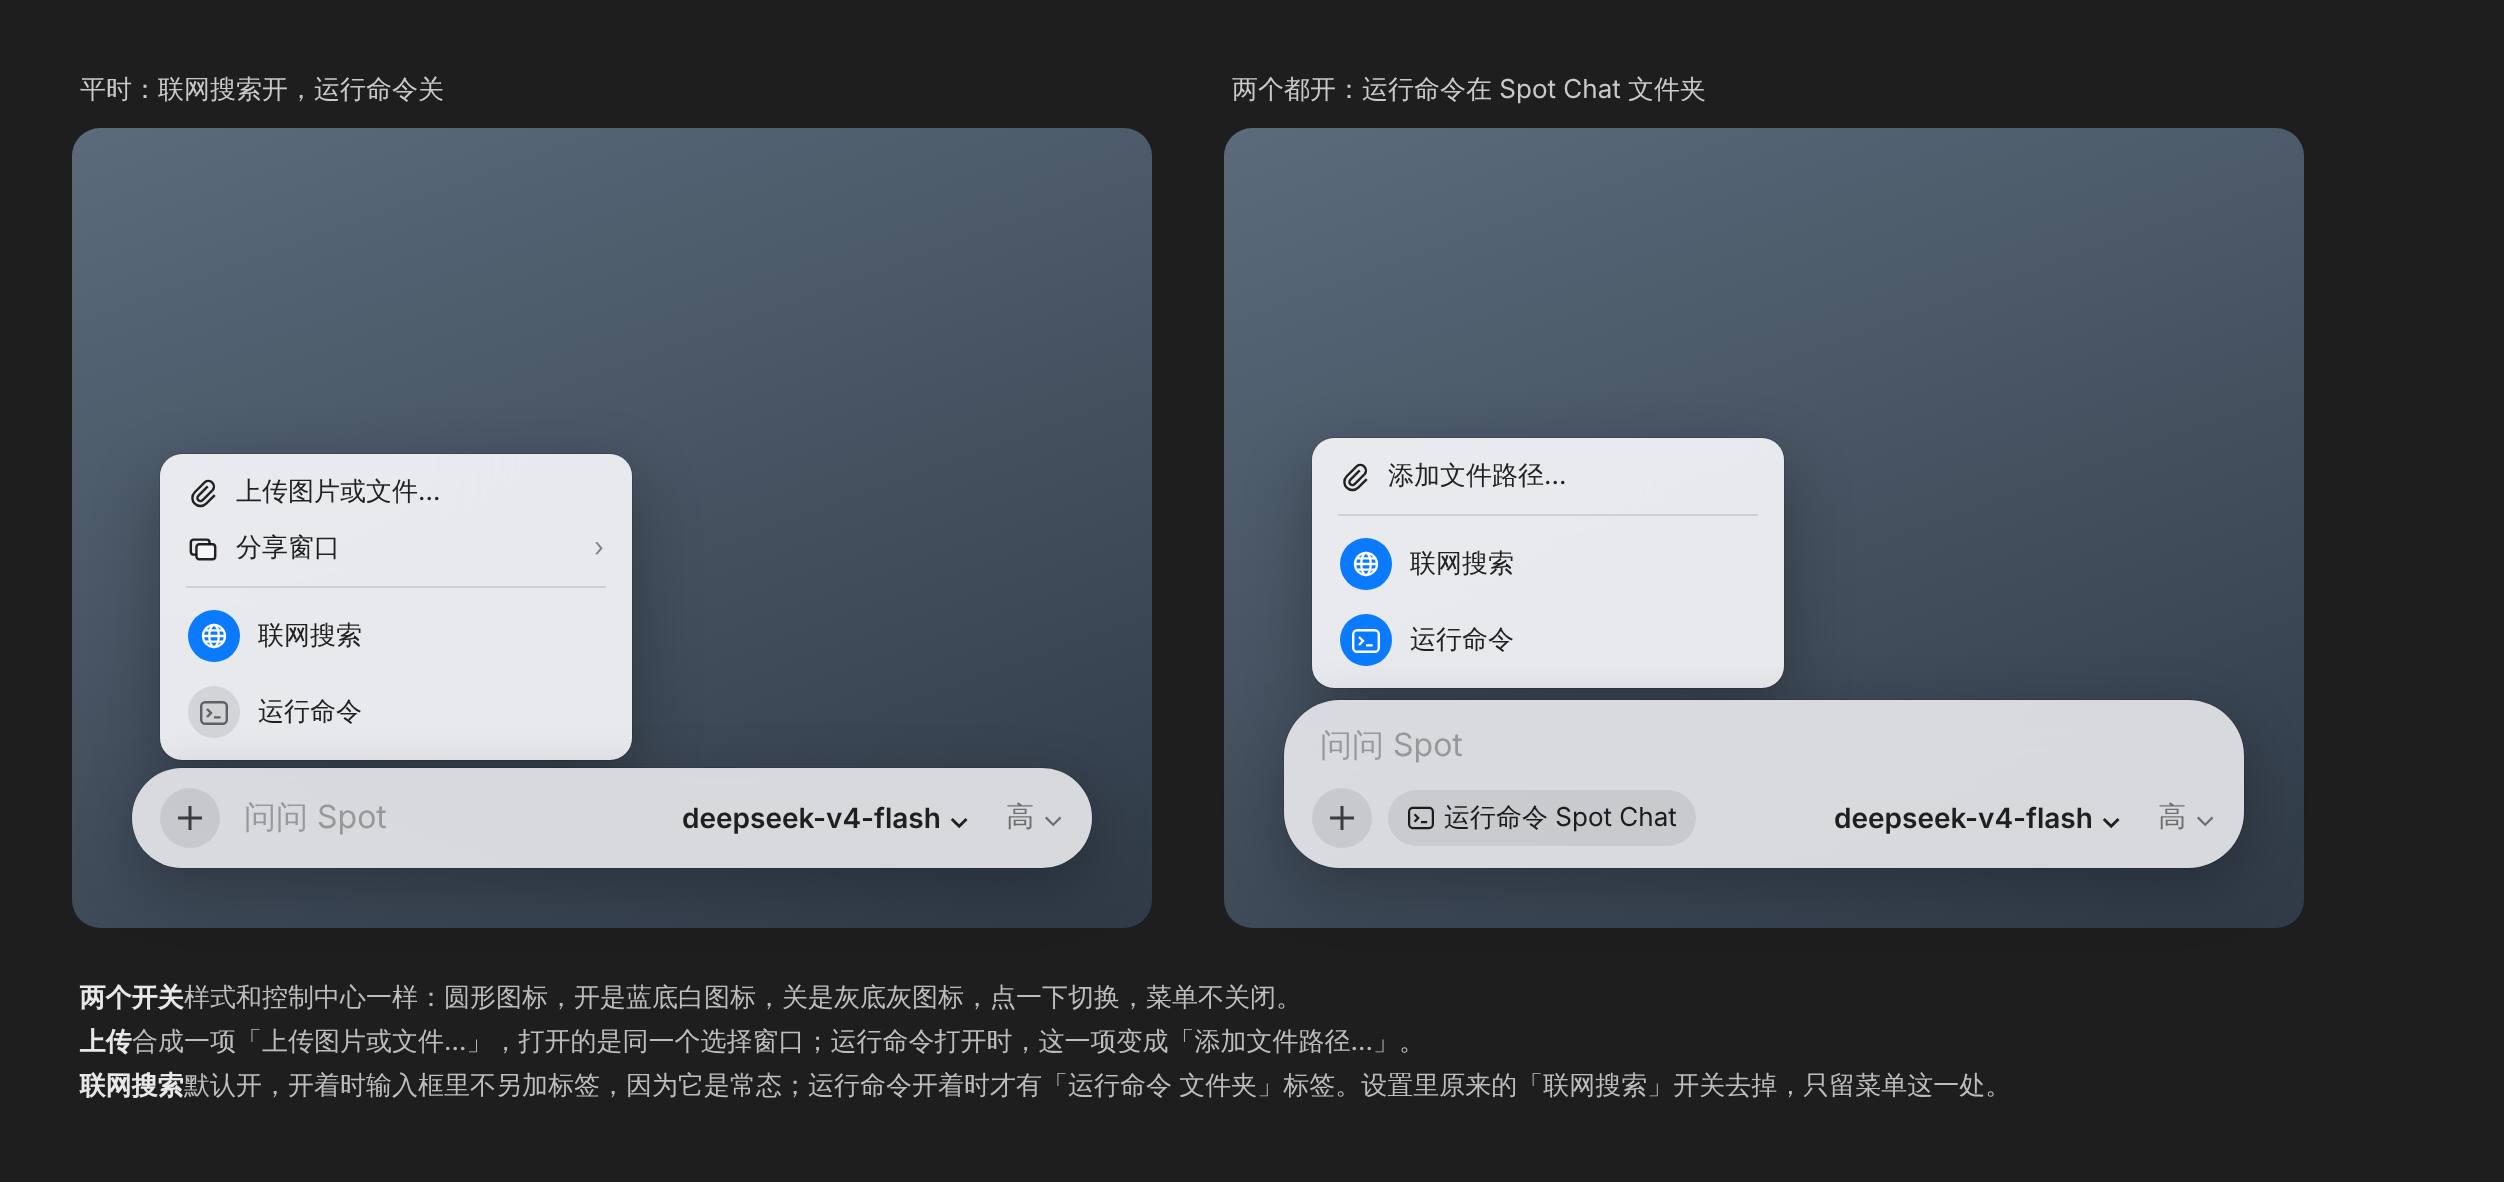
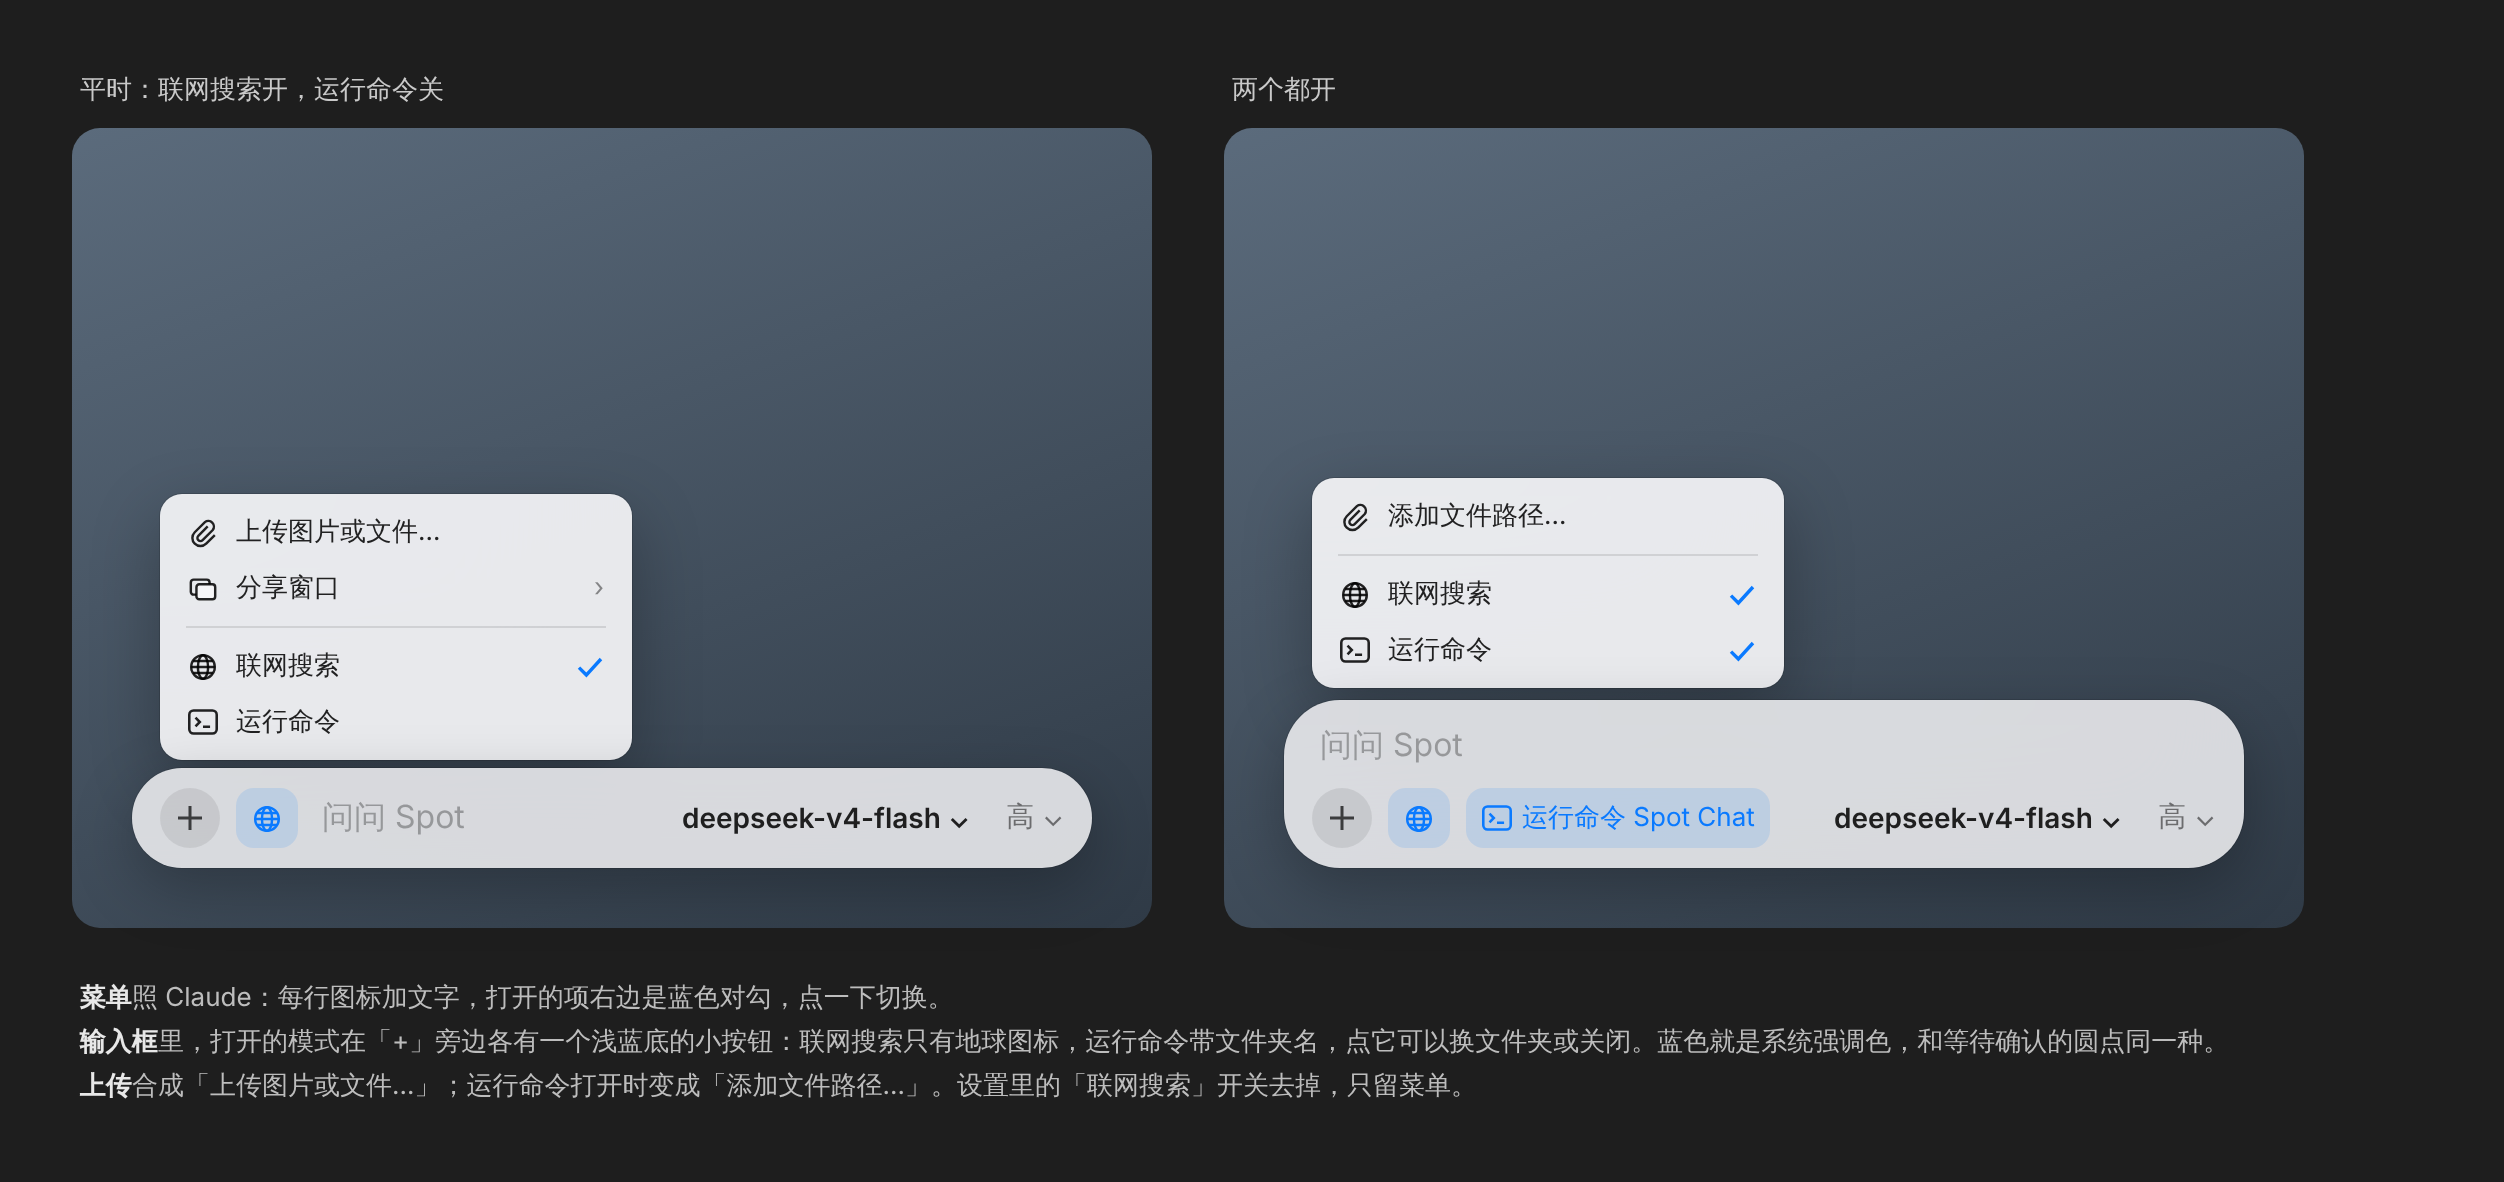
Follow Claude in the + menu mockup: check marks on the right, mode buttons beside the +
[ui: testInterfaceIsTranslatedForSimplifiedChinese]

Claude-Session: https://claude.ai/code/session_01REvHc4SjjqMcxY8UXeyBUw

diff --git a/docs/design/plus-menu.html b/docs/design/plus-menu.html
@@ -20,7 +20,8 @@ body{margin:0;background:#1e1e1e;height:max-content;font-family:-apple-system,"S
 .mi.hl{background:var(--accent);color:#fff}
 .mi .chev{margin-left:auto;opacity:.5}
 .sep{height:1px;background:rgba(0,0,0,.1);margin:5px 8px}
-.toggle{height:38px}
+.check{margin-left:auto;color:var(--accent);display:grid;place-items:center}
+.mode{height:30px;min-width:30px;padding:0 8px;border-radius:9px;display:inline-flex;align-items:center;gap:5px;background:rgba(10,122,255,.13);color:var(--accent);font-size:13px}
 .orb{width:26px;height:26px;border-radius:13px;display:grid;place-items:center;flex:none}
 .orb.off{background:rgba(0,0,0,.09);color:rgba(0,0,0,.55)}
 .orb.on{background:var(--accent);color:#fff}
@@ -36,33 +37,33 @@ body{margin:0;background:#1e1e1e;height:max-content;font-family:-apple-system,"S
     <div class="mi"><svg width="15" height="15" viewBox="0 0 16 16" fill="none" stroke="currentColor" stroke-width="1.3"><path d="M10.5 4.5l-5 5a1.6 1.6 0 0 0 2.3 2.3l5.4-5.4a3 3 0 0 0-4.2-4.2L3.6 7.6a4.3 4.3 0 0 0 6.1 6.1l4.6-4.6"/></svg>上传图片或文件…</div>
     <div class="mi"><svg width="15" height="15" viewBox="0 0 16 16" fill="none" stroke="currentColor" stroke-width="1.3"><rect x="1.5" y="3" width="10" height="8" rx="1.5"/><rect x="4.5" y="5.5" width="10" height="8" rx="1.5" fill="rgba(246,246,248,1)"/></svg>分享窗口<span class="chev">›</span></div>
     <div class="sep"></div>
-    <div class="mi toggle"><span class="orb on"><svg width="14" height="14" viewBox="0 0 16 16" fill="none" stroke="currentColor" stroke-width="1.3"><circle cx="8" cy="8" r="6.3"/><ellipse cx="8" cy="8" rx="2.7" ry="6.3"/><path d="M1.8 8h12.4M2.8 4.8h10.4M2.8 11.2h10.4"/></svg></span>联网搜索</div>
-    <div class="mi toggle"><span class="orb off"><svg width="14" height="13" viewBox="0 0 14 12" fill="none" stroke="currentColor" stroke-width="1.2"><rect x=".6" y=".6" width="12.8" height="10.8" rx="2"/><path d="M3.5 4l2 2-2 2M7 8.2h3.3"/></svg></span>运行命令</div>
+    <div class="mi"><svg width="15" height="15" viewBox="0 0 16 16" fill="none" stroke="currentColor" stroke-width="1.3"><circle cx="8" cy="8" r="6.3"/><ellipse cx="8" cy="8" rx="2.7" ry="6.3"/><path d="M1.8 8h12.4M2.8 4.8h10.4M2.8 11.2h10.4"/></svg>联网搜索<span class="check"><svg width="14" height="11" viewBox="0 0 14 11" fill="none" stroke="currentColor" stroke-width="1.7"><path d="M1.5 5.8l3.7 3.7L12.5 1.5"/></svg></span></div>
+    <div class="mi"><svg width="15" height="14" viewBox="0 0 14 12" fill="none" stroke="currentColor" stroke-width="1.2"><rect x=".6" y=".6" width="12.8" height="10.8" rx="2"/><path d="M3.5 4l2 2-2 2M7 8.2h3.3"/></svg>运行命令</div>
    </div>
    <div class="capsule">
-    <div class="line"><span class="plus"><svg width="14" height="14" viewBox="0 0 14 14" stroke="rgba(0,0,0,.7)" stroke-width="1.5"><path d="M7 1v12M1 7h12"/></svg></span><span class="ph" style="padding:0 4px">问问 Spot</span><span class="sp"></span><span class="model">deepseek-v4-flash ⌄</span><span class="eff">高 ⌄</span></div>
+    <div class="line"><span class="plus"><svg width="14" height="14" viewBox="0 0 14 14" stroke="rgba(0,0,0,.7)" stroke-width="1.5"><path d="M7 1v12M1 7h12"/></svg></span><span class="mode"><svg width="15" height="15" viewBox="0 0 16 16" fill="none" stroke="currentColor" stroke-width="1.3"><circle cx="8" cy="8" r="6.3"/><ellipse cx="8" cy="8" rx="2.7" ry="6.3"/><path d="M1.8 8h12.4M2.8 4.8h10.4M2.8 11.2h10.4"/></svg></span><span class="ph" style="padding:0 4px">问问 Spot</span><span class="sp"></span><span class="model">deepseek-v4-flash ⌄</span><span class="eff">高 ⌄</span></div>
    </div>
   </div>
  </div>
 
  <div class="state">
-  <div class="cap">两个都开：运行命令在 Spot Chat 文件夹</div>
+  <div class="cap">两个都开</div>
   <div class="stage">
    <div class="menu" style="bottom:120px">
     <div class="mi"><svg width="15" height="15" viewBox="0 0 16 16" fill="none" stroke="currentColor" stroke-width="1.3"><path d="M10.5 4.5l-5 5a1.6 1.6 0 0 0 2.3 2.3l5.4-5.4a3 3 0 0 0-4.2-4.2L3.6 7.6a4.3 4.3 0 0 0 6.1 6.1l4.6-4.6"/></svg>添加文件路径…</div>
     <div class="sep"></div>
-    <div class="mi toggle"><span class="orb on"><svg width="14" height="14" viewBox="0 0 16 16" fill="none" stroke="currentColor" stroke-width="1.3"><circle cx="8" cy="8" r="6.3"/><ellipse cx="8" cy="8" rx="2.7" ry="6.3"/><path d="M1.8 8h12.4M2.8 4.8h10.4M2.8 11.2h10.4"/></svg></span>联网搜索</div>
-    <div class="mi toggle"><span class="orb on"><svg width="14" height="13" viewBox="0 0 14 12" fill="none" stroke="currentColor" stroke-width="1.2"><rect x=".6" y=".6" width="12.8" height="10.8" rx="2"/><path d="M3.5 4l2 2-2 2M7 8.2h3.3"/></svg></span>运行命令</div>
+    <div class="mi"><svg width="15" height="15" viewBox="0 0 16 16" fill="none" stroke="currentColor" stroke-width="1.3"><circle cx="8" cy="8" r="6.3"/><ellipse cx="8" cy="8" rx="2.7" ry="6.3"/><path d="M1.8 8h12.4M2.8 4.8h10.4M2.8 11.2h10.4"/></svg>联网搜索<span class="check"><svg width="14" height="11" viewBox="0 0 14 11" fill="none" stroke="currentColor" stroke-width="1.7"><path d="M1.5 5.8l3.7 3.7L12.5 1.5"/></svg></span></div>
+    <div class="mi"><svg width="15" height="14" viewBox="0 0 14 12" fill="none" stroke="currentColor" stroke-width="1.2"><rect x=".6" y=".6" width="12.8" height="10.8" rx="2"/><path d="M3.5 4l2 2-2 2M7 8.2h3.3"/></svg>运行命令<span class="check"><svg width="14" height="11" viewBox="0 0 14 11" fill="none" stroke="currentColor" stroke-width="1.7"><path d="M1.5 5.8l3.7 3.7L12.5 1.5"/></svg></span></div>
    </div>
    <div class="capsule">
     <div class="ph">问问 Spot</div>
-    <div class="line"><span class="plus"><svg width="14" height="14" viewBox="0 0 14 14" stroke="rgba(0,0,0,.7)" stroke-width="1.5"><path d="M7 1v12M1 7h12"/></svg></span><span class="chip"><svg width="13" height="12" viewBox="0 0 14 12" fill="none" stroke="currentColor" stroke-width="1.2"><rect x=".6" y=".6" width="12.8" height="10.8" rx="2"/><path d="M3.5 4l2 2-2 2M7 8.2h3.3"/></svg>运行命令 Spot Chat</span><span class="sp"></span><span class="model">deepseek-v4-flash ⌄</span><span class="eff">高 ⌄</span></div>
+    <div class="line"><span class="plus"><svg width="14" height="14" viewBox="0 0 14 14" stroke="rgba(0,0,0,.7)" stroke-width="1.5"><path d="M7 1v12M1 7h12"/></svg></span><span class="mode"><svg width="15" height="15" viewBox="0 0 16 16" fill="none" stroke="currentColor" stroke-width="1.3"><circle cx="8" cy="8" r="6.3"/><ellipse cx="8" cy="8" rx="2.7" ry="6.3"/><path d="M1.8 8h12.4M2.8 4.8h10.4M2.8 11.2h10.4"/></svg></span><span class="mode"><svg width="15" height="14" viewBox="0 0 14 12" fill="none" stroke="currentColor" stroke-width="1.2"><rect x=".6" y=".6" width="12.8" height="10.8" rx="2"/><path d="M3.5 4l2 2-2 2M7 8.2h3.3"/></svg>运行命令 Spot Chat</span><span class="sp"></span><span class="model">deepseek-v4-flash ⌄</span><span class="eff">高 ⌄</span></div>
    </div>
   </div>
  </div>
 </div>
 
-<p class="note"><b>两个开关</b>样式和控制中心一样：圆形图标，开是蓝底白图标，关是灰底灰图标，点一下切换，菜单不关闭。<br>
-<b>上传</b>合成一项「上传图片或文件…」，打开的是同一个选择窗口；运行命令打开时，这一项变成「添加文件路径…」。<br>
-<b>联网搜索</b>默认开，开着时输入框里不另加标签，因为它是常态；运行命令开着时才有「运行命令 文件夹」标签。设置里原来的「联网搜索」开关去掉，只留菜单这一处。</p>
+<p class="note"><b>菜单</b>照 Claude：每行图标加文字，打开的项右边是蓝色对勾，点一下切换。<br>
+<b>输入框</b>里，打开的模式在「+」旁边各有一个浅蓝底的小按钮：联网搜索只有地球图标，运行命令带文件夹名，点它可以换文件夹或关闭。蓝色就是系统强调色，和等待确认的圆点同一种。<br>
+<b>上传</b>合成「上传图片或文件…」；运行命令打开时变成「添加文件路径…」。设置里的「联网搜索」开关去掉，只留菜单。</p>
 </body></html>
